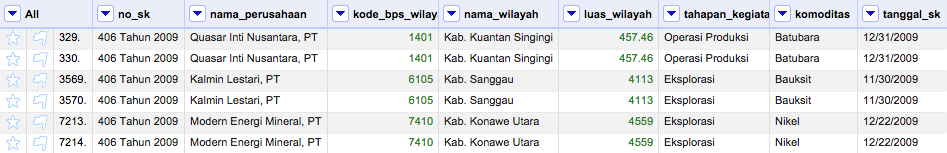
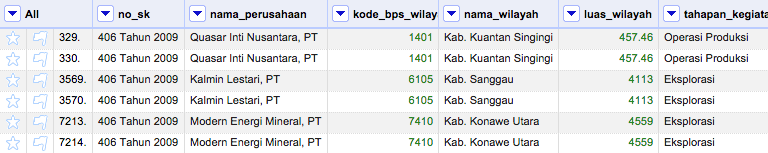
Resizing images

diff --git a/public/css/main.css b/public/css/main.css
@@ -44,13 +44,13 @@ h2 {
 
 /* Image resize */
 img[alt="newproject"] {
-  max-width: 850px;
+  max-width: 750px;
   display: block;
   border: 1px solid #ccc;
 }
 
 img[alt="maingui"] {
-  max-width: 600px;
+  max-width: 550px;
   display: block;
   border: 1px solid #ccc;
 }
@@ -62,7 +62,7 @@ img[alt="menucolumn"] {
 }
 
 img[alt="collapsecolumn"] {
-  max-width: 800px;
+  max-width: 700px;
   display: block;
   border: 1px solid #ccc;
 }
@@ -140,7 +140,7 @@ img[alt="duplicatesfacet"] {
 }
 
 img[alt="errorentry"] {
-  max-width: 850px;
+  max-width: 750px;
   display: block;
   border: 1px solid #ccc;
 }
@@ -164,7 +164,7 @@ img[alt="blankdown"] {
 }
 
 img[alt="emptycells"] {
-  max-width: 850px;
+  max-width: 750px;
   display: block;
   border: 1px solid #ccc;
 }
